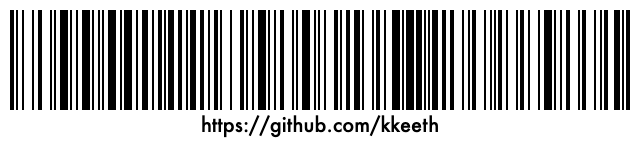
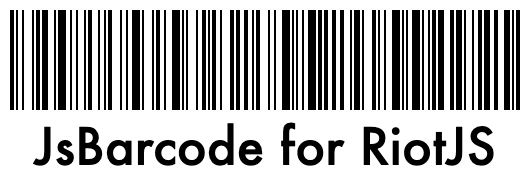
docs: updated readme

diff --git a/src/index.js b/src/index.js
@@ -5,19 +5,19 @@ import RiotBarcode from "./riot-barcode.riot";
 component(RiotBarcode)(document.getElementById("app"), {
   defaultProps: {
     format: "CODE128",
-    renderer: "img",
+    renderer: "svg",
     width: 2,
     height: 100,
     displayValue: true,
     fontOptions: "",
-    font: "monospace",
+    font: "Futura",
     textAlign: "center",
     textPosition: "bottom",
-    textMargin: 2,
-    fontSize: 20,
+    textMargin: 5,
+    fontSize: 50,
     background: "#ffffff",
     lineColor: "#000000",
     margin: 10,
-    value: "https://github.com/kkeeth",
+    value: "JsBarcode for RiotJS",
   },
 });

diff --git a/readme.md b/readme.md
@@ -1,21 +1,32 @@
-# riot-barcode
+[![npm version](https://badge.fury.io/js/riot-barcode.svg)](https://badge.fury.io/js/riot-barcode)
+![node](https://img.shields.io/badge/node-%3E%3D%2012.18.3-brightgreen.svg?style=social)
+[![MIT License](http://img.shields.io/badge/license-MIT-blue.svg?style=flat)](LICENSE)
 
+`riot-barcode` is a simple **barcode generator** for [riotjs](https://riot.js.org/) by using [JsBarcode](https://github.com/lindell/JsBarcode) library.
 
+<img src="https://raw.githubusercontent.com/kkeeth/riot-barcode/master/assets/img/barcode.png" alt="barcode" width="600"><br>
+Preview: http://kkeeth.github.io/riot-barcode/
 
 ## Start
 
 ```
-npm start
-```
-
-## Test
-
-```
-npm test
+yarn start
 ```
 
 ## Build
 
 ```
-npm run build
+yarn build
 ```
+
+# License
+
+[MIT](https://github.com/kkeeth/riot-barcode/blob/master/LICENSE)
+
+# Any issue or want more features? Contact me!
+
+This module has been tested under limited scenarios. If you find any issue please feel free to report via one of the below platforms:
+
+Github: <a href="https://github.com/kkeeth/riot-barcode/issues">riot-barcode</a><br>
+Email: zensin0082@gmail.com<br>
+Twitter: <a href="https://twitter.com/kuwahara_jsri" target="_blank">@kuwahara_jsri</a>
